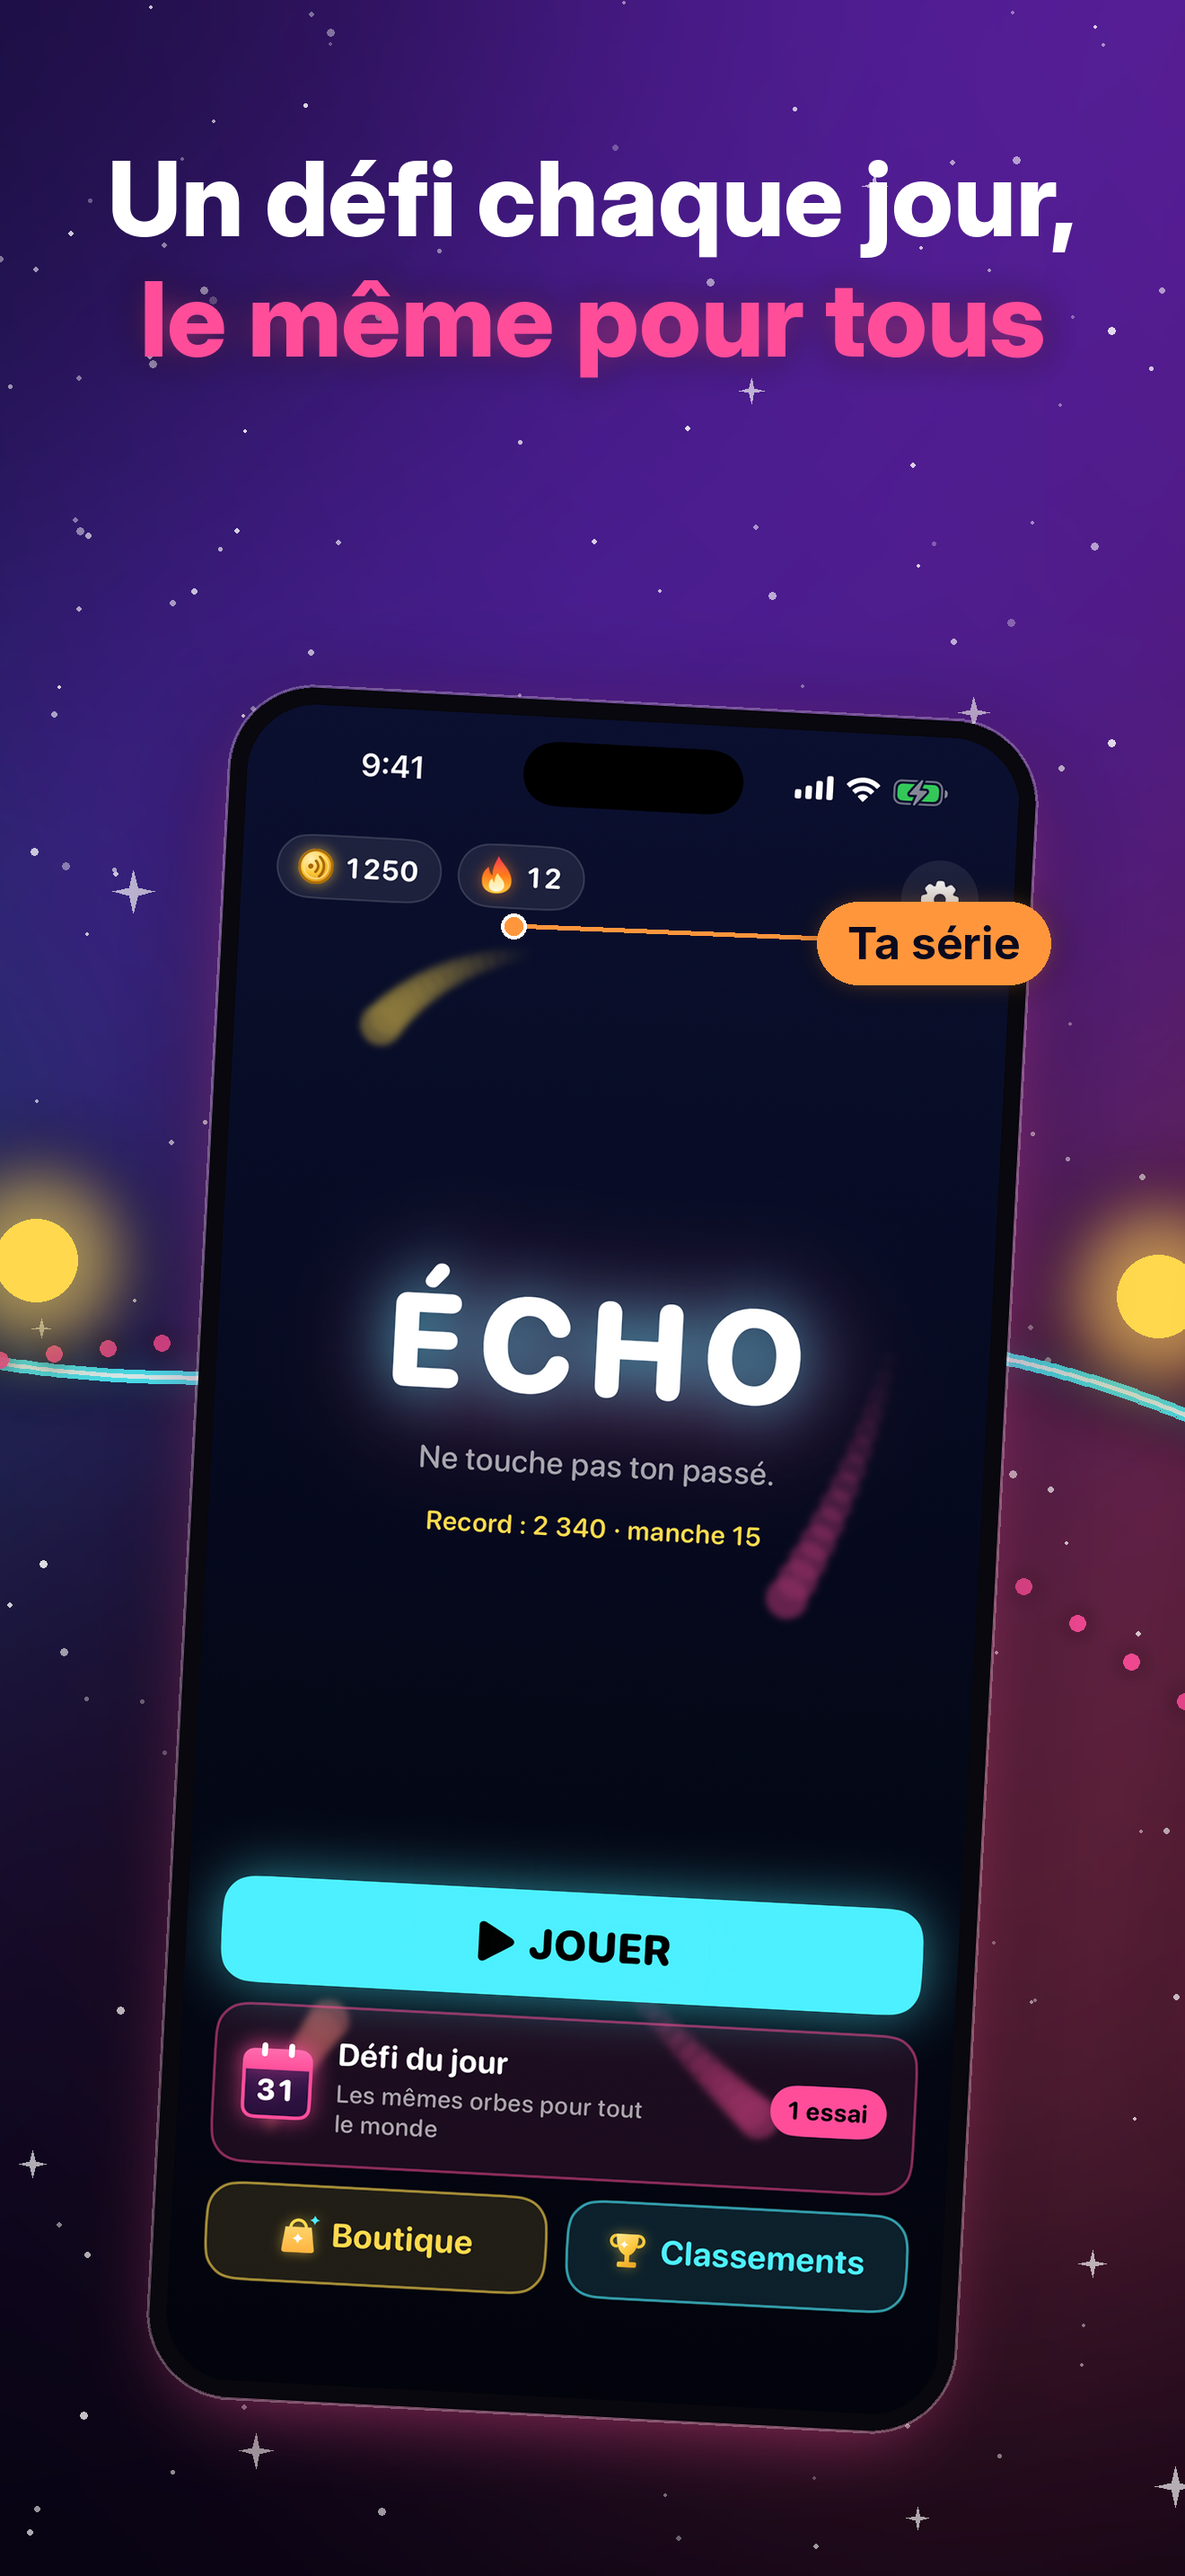
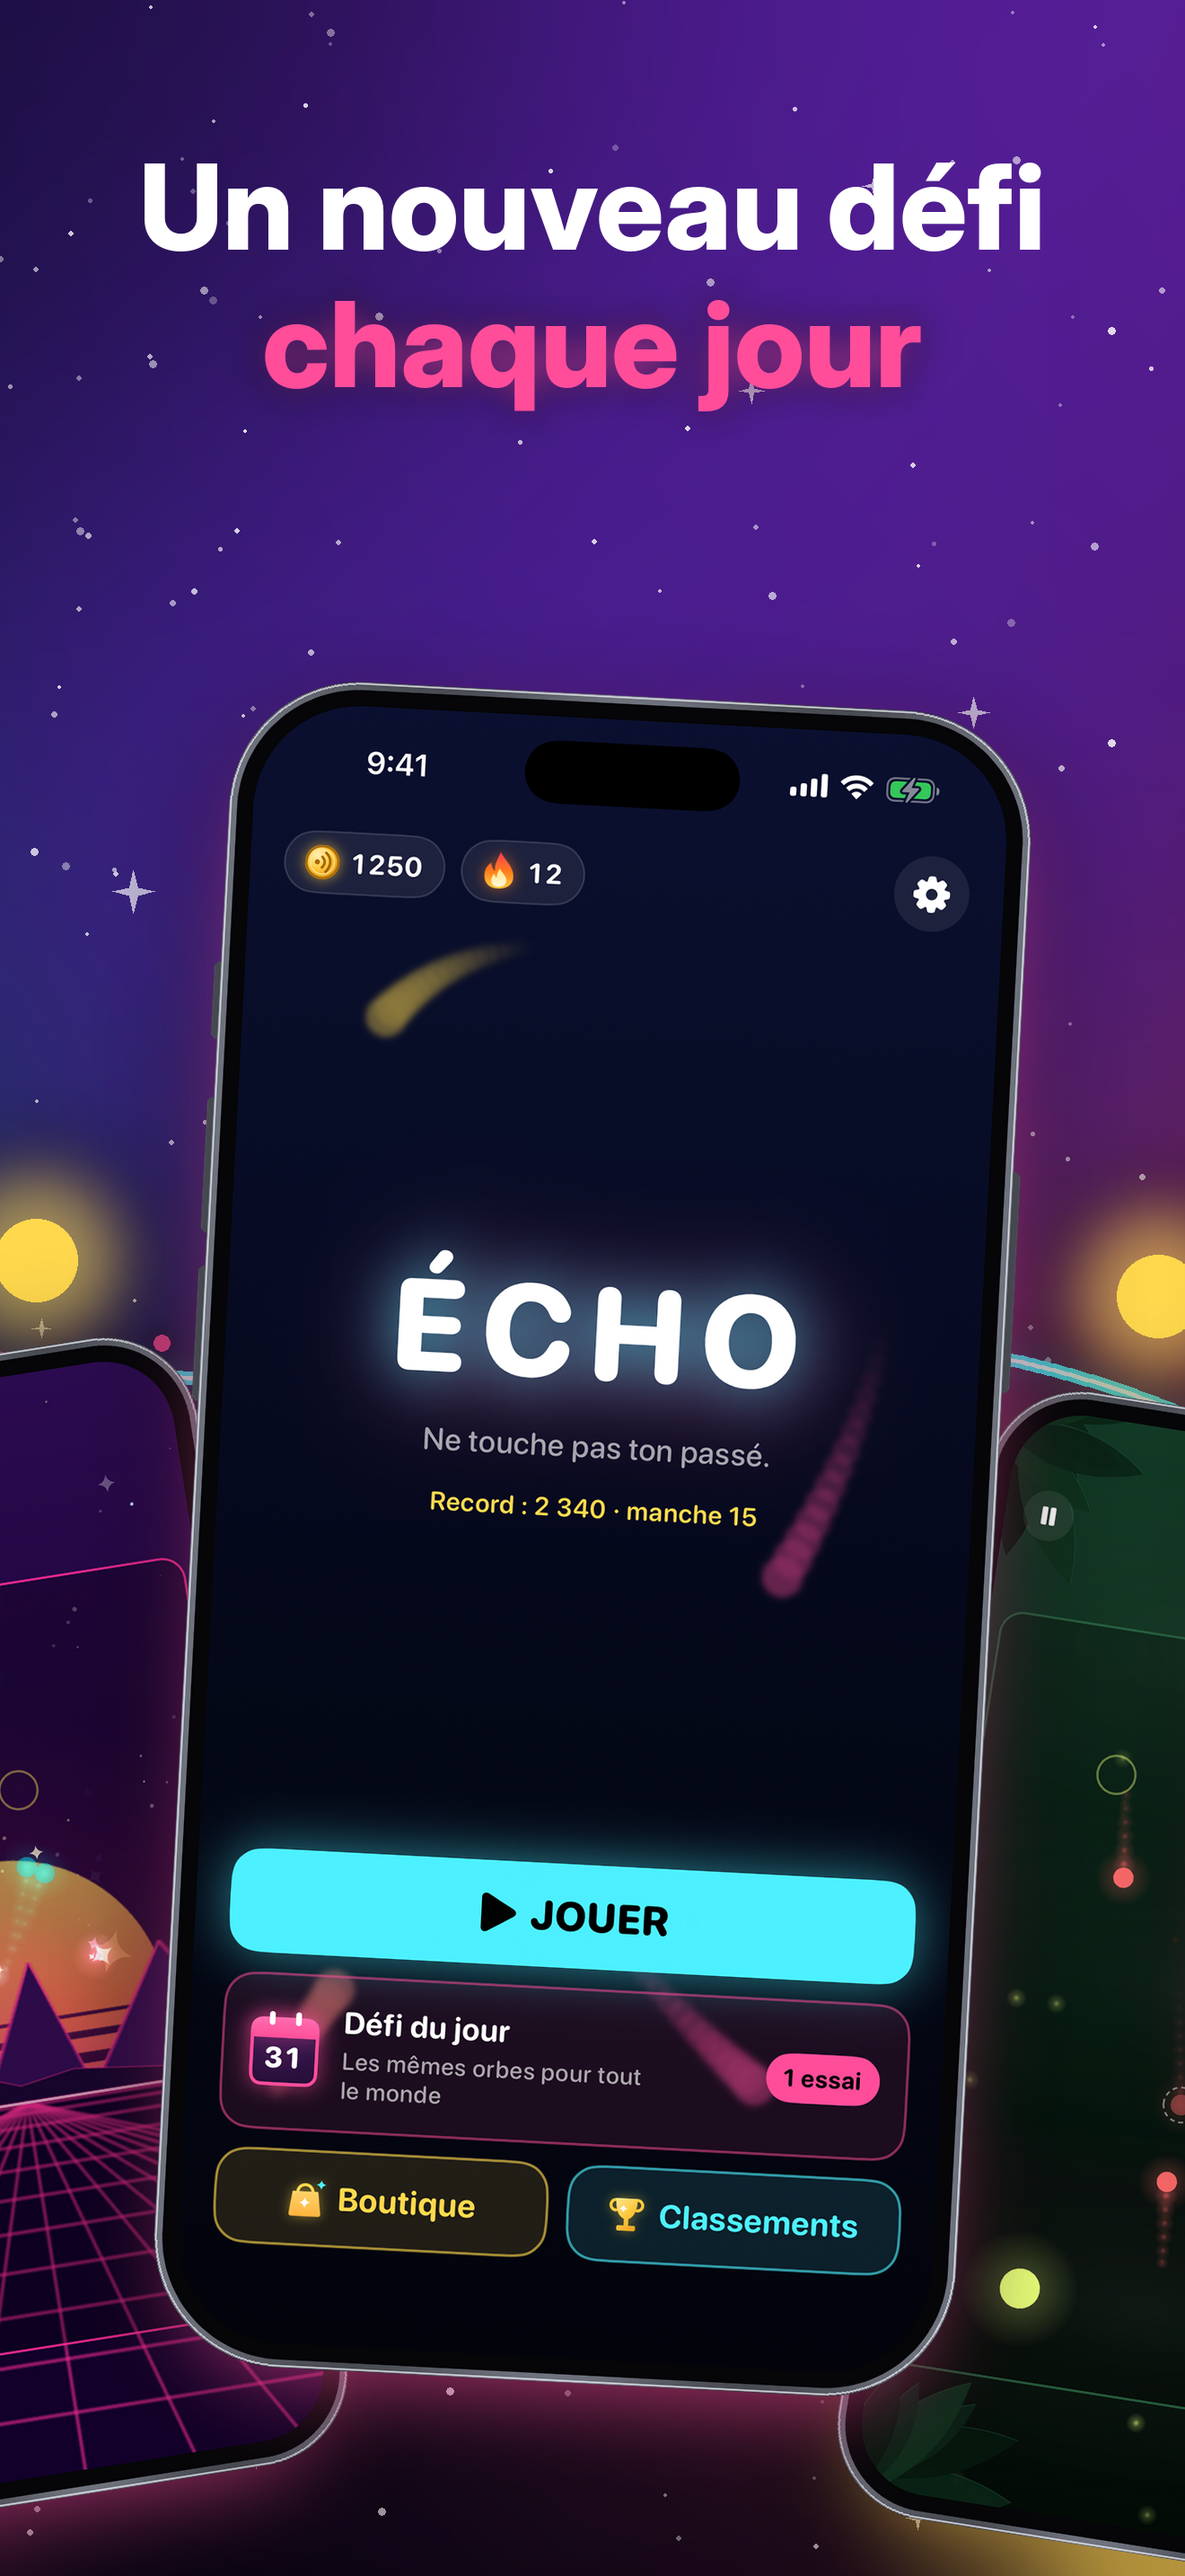
Écho : fiche App Store v3 (vrais iPhone arrondis, plus de parties, phrases simples)
Claude-Session: https://claude.ai/code/session_012p7LZ755oyoFKsrrTQ5Qi9

diff --git a/echo/scripts/app-store-frames.py b/echo/scripts/app-store-frames.py
@@ -2,7 +2,7 @@
 """Images de la fiche App Store d'Écho : une fresque continue coupée en 6 images (iPhone 6,9 pouces, 1320 × 2868).
 
 Le fond, la traînée lumineuse, son fantôme et les orbes passent d'une image à l'autre : en faisant défiler la fiche,
-on voit un seul grand décor. Chaque image explique une étape du jeu (accroche + capture ou schéma + étiquettes).
+on voit un seul grand décor. Chaque image montre des parties dans un vrai iPhone, avec une phrase courte qui donne envie.
 Sources : captures du simulateur dans echo/docs/captures (workflow « Écho Captures »).
 Usage : python3 -I echo/scripts/app-store-frames.py   → echo/docs/app-store/01-….png
 """
@@ -126,7 +126,7 @@ def caption(img: Image.Image, x0: int, step: int | None, line1: str, line2: str,
         f = font(TITLE, 56)
         d.text((cx, top + 20), str(step), font=f, fill=(10, 10, 30), anchor="mm")
         top += 120
-    size = 116
+    size = 132
     while size > 60 and max(font(TITLE, size).getlength(t) for t in (line1, line2)) > W - 150:
         size -= 4
     f = font(TITLE, size)
@@ -141,147 +141,124 @@ def caption(img: Image.Image, x0: int, step: int | None, line1: str, line2: str,
     return img
 
 
-def phone(img: Image.Image, shot_name: str, cx: float, top: float, width: int, angle: float, glow) -> tuple[Image.Image, callable]:
-    """Pose une capture dans un téléphone (bord noir arrondi, halo coloré, légère inclinaison).
-    Renvoie aussi une fonction qui convertit un point de la capture (pixels d'origine) en point de la fresque."""
-    shot = Image.open(next(SOURCE.glob(f"*-{shot_name}.png"))).convert("RGB")
+def rr_mask(size: tuple[int, int], radius: float, inset: float = 0) -> Image.Image:
+    """Masque de rectangle arrondi lissé (dessiné 4× plus grand puis réduit : bords sans escalier)."""
+    k = 4
+    big = Image.new("L", (size[0] * k, size[1] * k), 0)
+    ImageDraw.Draw(big).rounded_rectangle([inset * k, inset * k, (size[0] - inset) * k - 1, (size[1] - inset) * k - 1],
+                                          radius=radius * k, fill=255)
+    return big.resize(size, Image.LANCZOS)
+
+
+def find_shot(name: str) -> Path:
+    """Capture `*-<name>.png` (ex. « partie-night-neon »), sinon la capture du même décor."""
+    found = next(SOURCE.glob(f"*-{name}.png"), None)
+    if found is None and name.count("-") >= 2:
+        found = next(SOURCE.glob(f"*-{name.rsplit('-', 1)[0]}*.png"), None)
+    if found is None:
+        raise SystemExit(f"Capture manquante : {name}")
+    return found
+
+
+def iphone(shot: Image.Image, width: int) -> Image.Image:
+    """Capture dans un iPhone : coins très arrondis comme l'écran, bord en titane, bordure noire fine, boutons."""
     s = width / shot.width
     height = int(shot.height * s)
-    shot = shot.resize((width, height), Image.LANCZOS)
-    bezel = 22
-    fw, fh = width + 2 * bezel, height + 2 * bezel
+    screen = shot.resize((width, height), Image.LANCZOS)
+    bezel, rim, pad = 18, 9, 14
+    sw, sh = width + 2 * bezel, height + 2 * bezel
+    fw, fh = sw + 2 * rim, sh + 2 * rim
+    canvas = Image.new("RGBA", (fw + 2 * pad, fh + 2 * pad), (0, 0, 0, 0))
+    screen_radius = width * 0.14
+    # Boutons latéraux (action et volume à gauche, marche à droite), sous le cadre.
+    d = ImageDraw.Draw(canvas)
+    button = (70, 72, 80, 255)
+    for y, h in [(0.17, 0.045), (0.25, 0.08), (0.35, 0.08)]:
+        d.rounded_rectangle([pad - 7, pad + fh * y, pad + 10, pad + fh * (y + h)], radius=6, fill=button)
+    d.rounded_rectangle([pad + fw - 10, pad + fh * 0.27, pad + fw + 7, pad + fh * 0.4], radius=6, fill=button)
+    # Cadre titane : dégradé clair-sombre, liseré brillant.
+    body = Image.new("RGBA", (fw, fh))
+    grad = np.linspace(0, 1, fw)[None, :]
+    tone = (120 + 60 * np.cos(grad * math.pi * 2) ** 2).astype(np.uint8)
+    metal = np.stack([np.repeat(tone, fh, 0) * 0.62, np.repeat(tone, fh, 0) * 0.64, np.repeat(tone, fh, 0) * 0.7,
+                      np.full((fh, fw), 255)], axis=2).clip(0, 255).astype(np.uint8)
+    body = Image.fromarray(metal, "RGBA")
+    outer = rr_mask((fw, fh), screen_radius + bezel + rim)
     frame = Image.new("RGBA", (fw, fh), (0, 0, 0, 0))
-    ImageDraw.Draw(frame).rounded_rectangle([0, 0, fw - 1, fh - 1], radius=96, fill=(8, 8, 14, 255),
-                                            outline=(255, 255, 255, 70), width=3)
-    mask = Image.new("L", (width, height), 0)
-    ImageDraw.Draw(mask).rounded_rectangle([0, 0, width, height], radius=76, fill=255)
-    frame.paste(shot, (bezel, bezel), mask)
+    frame.paste(body, (0, 0), outer)
+    # Bordure noire puis écran.
+    black = Image.new("RGBA", (fw, fh), (6, 6, 9, 255))
+    frame.paste(black, (0, 0), rr_mask((fw, fh), screen_radius + bezel, inset=rim))
+    shine = Image.new("RGBA", (fw, fh), (0, 0, 0, 0))
+    ImageDraw.Draw(shine).rounded_rectangle([1, 1, fw - 2, fh - 2], radius=screen_radius + bezel + rim,
+                                            outline=(235, 238, 245, 170), width=2)
+    frame = Image.alpha_composite(frame, shine)
+    screen_layer = Image.new("RGBA", (fw, fh), (0, 0, 0, 0))
+    screen_layer.paste(screen, (rim + bezel, rim + bezel), rr_mask((width, height), screen_radius))
+    frame = Image.alpha_composite(frame, screen_layer)
+    canvas.alpha_composite(frame, (pad, pad))
+    return canvas
+
+
+def phone(img: Image.Image, shot_name: str, cx: float, top: float, width: int, angle: float, glow) -> Image.Image:
+    """Pose une capture dans un iPhone (légère inclinaison, halo coloré dessous)."""
+    frame = iphone(Image.open(find_shot(shot_name)).convert("RGB"), width)
     rotated = frame.rotate(angle, resample=Image.BICUBIC, expand=True)
-    px, py = cx - rotated.width / 2, top + fh / 2 - rotated.height / 2
+    px, py = cx - rotated.width / 2, top + frame.height / 2 - rotated.height / 2
     shadow = Image.new("RGBA", img.size, (0, 0, 0, 0))
-    alpha = rotated.split()[3].point(lambda a: 150 if a > 0 else 0)
+    alpha = rotated.split()[3].point(lambda a: 170 if a > 0 else 0)
     tint = Image.new("RGBA", rotated.size, glow + (0,))
     tint.putalpha(alpha)
-    shadow.alpha_composite(tint, (int(px), int(py) + 30))
-    img = Image.alpha_composite(img, shadow.filter(ImageFilter.GaussianBlur(55)))
+    shadow.alpha_composite(tint, (int(px), int(py) + 40))
+    img = Image.alpha_composite(img, shadow.filter(ImageFilter.GaussianBlur(60)))
     img.alpha_composite(rotated, (int(px), int(py)))
-
-    center = (cx, top + fh / 2)
-    a = math.radians(angle)
-
-    def to_canvas(sx: float, sy: float) -> tuple[float, float]:
-        x = bezel + sx * s - fw / 2
-        y = bezel + sy * s - fh / 2
-        # Rotation PIL : sens inverse des aiguilles d'une montre, axe y vers le bas.
-        return center[0] + x * math.cos(a) + y * math.sin(a), center[1] - x * math.sin(a) + y * math.cos(a)
-
-    return img, to_canvas
-
-
-def label(img: Image.Image, text: str, at: tuple[float, float], to: tuple[float, float], color) -> Image.Image:
-    """Étiquette (pastille de texte) reliée par un trait à un point de la capture."""
-    d = ImageDraw.Draw(img)
-    f = font(LABEL, 50)
-    tw = f.getlength(text)
-    x, y = at
-    d.line([at, to], fill=color + (255,), width=6)
-    r = 14
-    d.ellipse([to[0] - r, to[1] - r, to[0] + r, to[1] + r], fill=color + (255,), outline=WHITE + (255,), width=4)
-    box = [x - tw / 2 - 34, y - 46, x + tw / 2 + 34, y + 46]
-    halo = Image.new("RGBA", img.size, (0, 0, 0, 0))
-    ImageDraw.Draw(halo).rounded_rectangle(box, radius=46, fill=color + (160,))
-    img = Image.alpha_composite(img, halo.filter(ImageFilter.GaussianBlur(18)))
-    d = ImageDraw.Draw(img)
-    d.rounded_rectangle(box, radius=46, fill=color + (255,))
-    d.text((x, y), text, font=f, fill=(10, 10, 30), anchor="mm")
-    return img
-
-
-def swipe(img: Image.Image, at: tuple[float, float]) -> Image.Image:
-    """Geste du doigt : bout de doigt lumineux et arc de mouvement."""
-    layer = Image.new("RGBA", img.size, (0, 0, 0, 0))
-    d = ImageDraw.Draw(layer)
-    x, y = at
-    d.arc([x - 260, y - 150, x + 60, y + 170], start=200, end=330, fill=WHITE + (230,), width=12)
-    d.polygon([(x + 30, y - 120), (x + 66, y - 60), (x - 4, y - 70)], fill=WHITE + (230,))
-    d.ellipse([x - 230 - 58, y + 20 - 58, x - 230 + 58, y + 20 + 58], fill=WHITE + (90,), outline=WHITE + (230,), width=8)
-    img = Image.alpha_composite(img, layer.filter(ImageFilter.GaussianBlur(12)))
-    return Image.alpha_composite(img, layer)
-
-
-def ghost_diagram(img: Image.Image, x0: int) -> Image.Image:
-    """Schéma : manche 1 (ton trajet) puis manche 2 (le même trajet devient un fantôme qui te poursuit)."""
-    panels = [(760, "Manche 1 : ton trajet"), (1720, "Manche 2 : il te poursuit")]
-    curve = lambda t: (x0 + 250 + 820 * t, 0 + 300 - 210 * math.sin(t * math.pi * 1.3) + 120 * t)
-    for idx, (top, title) in enumerate(panels):
-        card = Image.new("RGBA", img.size, (0, 0, 0, 0))
-        ImageDraw.Draw(card).rounded_rectangle([x0 + 110, top, x0 + W - 110, top + 860], radius=60,
-                                               fill=(12, 14, 44, 215), outline=(255, 255, 255, 70), width=3)
-        img = Image.alpha_composite(img, card)
-        d = ImageDraw.Draw(img)
-        d.text((x0 + W / 2, top + 80), title, font=font(LABEL, 56), fill=WHITE, anchor="mm")
-        pts = [(curve(t / 100)[0], top + 220 + curve(t / 100)[1]) for t in range(101)]
-        if idx == 0:
-            img = glow_line(img, pts, CYAN, 22, 10)
-            img = orb(img, *pts[-1], 40)
-            d = ImageDraw.Draw(img)
-            d.ellipse([pts[0][0] - 26, pts[0][1] - 26, pts[0][0] + 26, pts[0][1] + 26], fill=WHITE)
-        else:
-            # Le fantôme rejoue le trajet de la manche 1…
-            dots = Image.new("RGBA", img.size, (0, 0, 0, 0))
-            dd = ImageDraw.Draw(dots)
-            for x, y in pts[:70:4]:
-                dd.ellipse([x - 10, y - 10, x + 10, y + 10], fill=PINK + (230,))
-            gx, gy = pts[70]
-            dd.ellipse([gx - 30, gy - 30, gx + 30, gy + 30], fill=PINK + (255,))
-            img = Image.alpha_composite(img, dots.filter(ImageFilter.GaussianBlur(12)))
-            img = Image.alpha_composite(img, dots)
-            # … pendant que tu traces un nouveau chemin pour l'éviter.
-            new = [(x0 + 230 + 800 * (t / 100), top + 640 - 300 * (t / 100) ** 1.4 - 80 * math.sin(t / 100 * 6)) for t in range(101)]
-            img = glow_line(img, new, CYAN, 22, 10)
-            d = ImageDraw.Draw(img)
-            ex, ey = new[-1]
-            d.ellipse([ex - 26, ey - 26, ex + 26, ey + 26], fill=WHITE)
-            img = label(img, "Évite-le !", (gx + 40, gy + 230), (gx, gy + 34), PINK)
     return img
 
 
 # MARK: Les 6 images
 
 
+def sticker(img: Image.Image, text: str, at: tuple[float, float], color, size: int, angle: float) -> Image.Image:
+    """Gros texte lumineux incliné (ex. « ×5 »)."""
+    f = font(TITLE, size)
+    box = f.getbbox(text)
+    layer = Image.new("RGBA", (box[2] + 120, box[3] + 120), (0, 0, 0, 0))
+    ImageDraw.Draw(layer).text((60, 60), text, font=f, fill=color + (255,))
+    glow = layer.filter(ImageFilter.GaussianBlur(26))
+    layer = Image.alpha_composite(glow, layer).rotate(angle, resample=Image.BICUBIC, expand=True)
+    img.alpha_composite(layer, (int(at[0] - layer.width / 2), int(at[1] - layer.height / 2)))
+    return img
+
+
 def build() -> Image.Image:
     img = panorama()
     x = lambda i: W * i
 
-    # 1. Glisser, attraper.
-    img = caption(img, x(0), 1, "Glisse ton doigt,", "attrape les orbes", CYAN)
-    img, at = phone(img, "partie-ocean", x(0) + W / 2, 780, 860, 3, CYAN)
-    img = swipe(img, (x(0) + 1000, 2520))
+    # Téléphones à cheval sur deux images (derrière les téléphones principaux) : plus de parties, défilement continu.
+    img = phone(img, "partie-ocean-electric", x(1), 1500, 560, 9, CYAN)
+    img = phone(img, "partie-night-comet", x(2), 1560, 560, -9, PINK)
+    img = phone(img, "partie-synthwave-neon", x(4), 1500, 560, 9, PINK)
+    img = phone(img, "partie-forest-sakura", x(5), 1560, 560, -9, GOLD)
 
-    # 2. Le principe : la manche devient un fantôme (schéma).
-    img = caption(img, x(1), 2, "Chaque manche devient", "un fantôme", PINK)
-    img = ghost_diagram(img, x(1))
+    img = caption(img, x(0), None, "Ne touche pas", "ton passé", CYAN)
+    img = phone(img, "partie-night-neon", x(0) + W / 2, 760, 840, -3, CYAN)
 
-    # 3. Frôler : le multiplicateur.
-    img = caption(img, x(2), 3, "Frôle tes fantômes :", "jusqu'à ×5 !", GOLD)
-    img, at = phone(img, "partie-ink", x(2) + W / 2, 780, 860, -3, GOLD)
-    img = label(img, "Multiplicateur", (x(2) + 300, 1150), at(585, 462), GOLD)
+    img = caption(img, x(1), None, "Chaque manche,", "un fantôme de plus", PINK)
+    img = phone(img, "partie-ocean-bubbles", x(1) + W / 2, 760, 840, 3, PINK)
 
-    # 4. Les échos pâles se dévorent.
-    img = caption(img, x(3), 4, "Les échos pâles", "se dévorent", CYAN)
-    img, at = phone(img, "partie-night", x(3) + W / 2, 780, 860, 3, CYAN)
-    img = label(img, "Écho pâle", (x(3) + 1020, 1180), at(758, 834), WHITE)
-    img = label(img, "Toi", (x(3) + 260, 1900), at(704, 1526), CYAN)
+    img = caption(img, x(2), None, "Frôle-les pour", "exploser ton score", GOLD)
+    img = phone(img, "partie-ink-sakura", x(2) + W / 2, 760, 840, -3, GOLD)
+    img = sticker(img, "×5", (x(2) + 1080, 1060), GOLD, 210, -12)
 
-    # 5. Défi du jour.
-    img = caption(img, x(4), None, "Un défi chaque jour,", "le même pour tous", PINK)
-    img, at = phone(img, "accueil", x(4) + W / 2, 780, 860, -3, PINK)
-    img = label(img, "Ta série", (x(4) + 1040, 1050), at(470, 360), ORANGE)
+    img = caption(img, x(3), None, "Des traînées", "de folie", ORANGE)
+    img = phone(img, "partie-forest-fire", x(3) + W / 2, 760, 840, 3, ORANGE)
 
-    # 6. Collection : traînées et décors (deux téléphones en éventail).
+    img = caption(img, x(4), None, "Un nouveau défi", "chaque jour", PINK)
+    img = phone(img, "accueil", x(4) + W / 2, 760, 840, -3, PINK)
+
     img = caption(img, x(5), None, "16 traînées,", "5 décors animés", GOLD)
-    img, _ = phone(img, "partie-synthwave", x(5) + W / 2 - 200, 880, 680, -7, PINK)
-    img, _ = phone(img, "boutique-trails", x(5) + W / 2 + 175, 1010, 680, 5, GOLD)
+    img = phone(img, "partie-synthwave-galaxy", x(5) + W / 2 - 190, 860, 680, -7, PINK)
+    img = phone(img, "boutique-trails", x(5) + W / 2 + 170, 990, 680, 5, GOLD)
     return img
 
 
@@ -290,7 +267,7 @@ def main() -> None:
     for old in OUT.glob("*.png"):
         old.unlink()
     fresco = build().convert("RGB")
-    names = ["glisse", "fantome", "multiplicateur", "echos-pales", "defi-du-jour", "collection"]
+    names = ["ton-passe", "fantomes", "score", "trainees", "defi-du-jour", "collection"]
     for i, name in enumerate(names):
         path = OUT / f"{i + 1:02d}-{name}.png"
         fresco.crop((i * W, 0, (i + 1) * W, H)).save(path)
